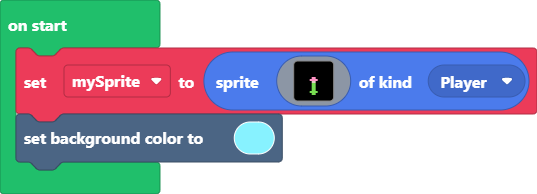
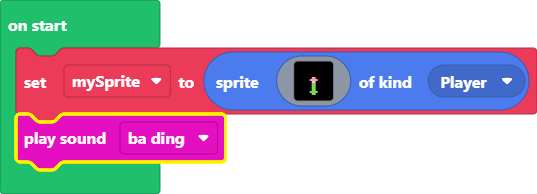
Update main.blocks, main.ts

Changed region(s): [[0.0, 0.5567, 0.5363, 0.8969]]

diff --git a/main.ts b/main.ts
@@ -16,4 +16,4 @@ let mySprite = sprites.create(img`
     . . . . . . . 7 7 . . . . . . . 
     . . . . . . . . . . . . . . . . 
     `, SpriteKind.Player)
-scene.setBackgroundColor(9)
+music.baDing.play()
